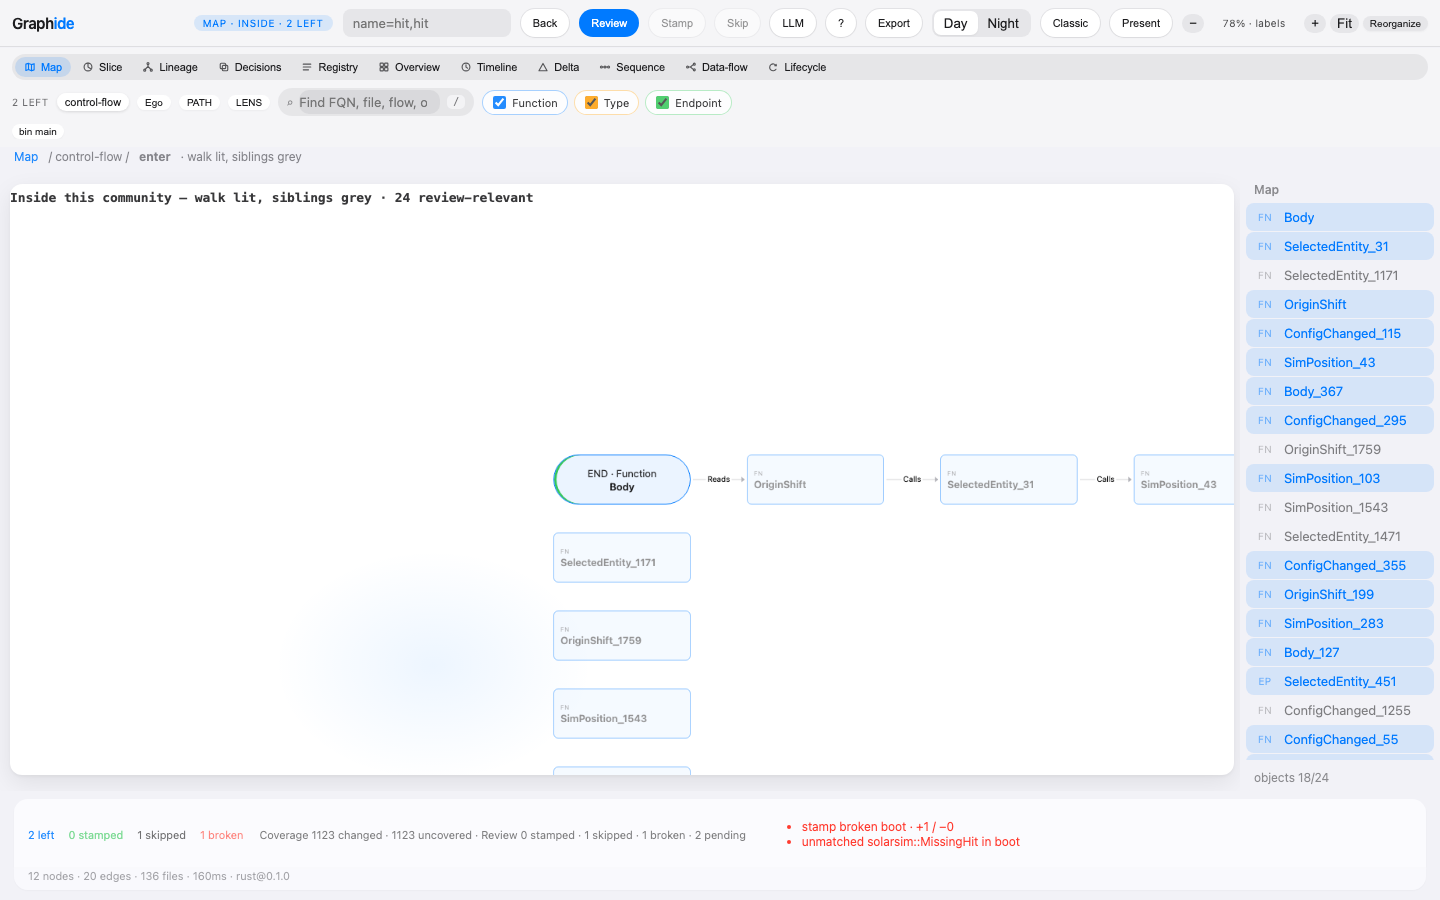
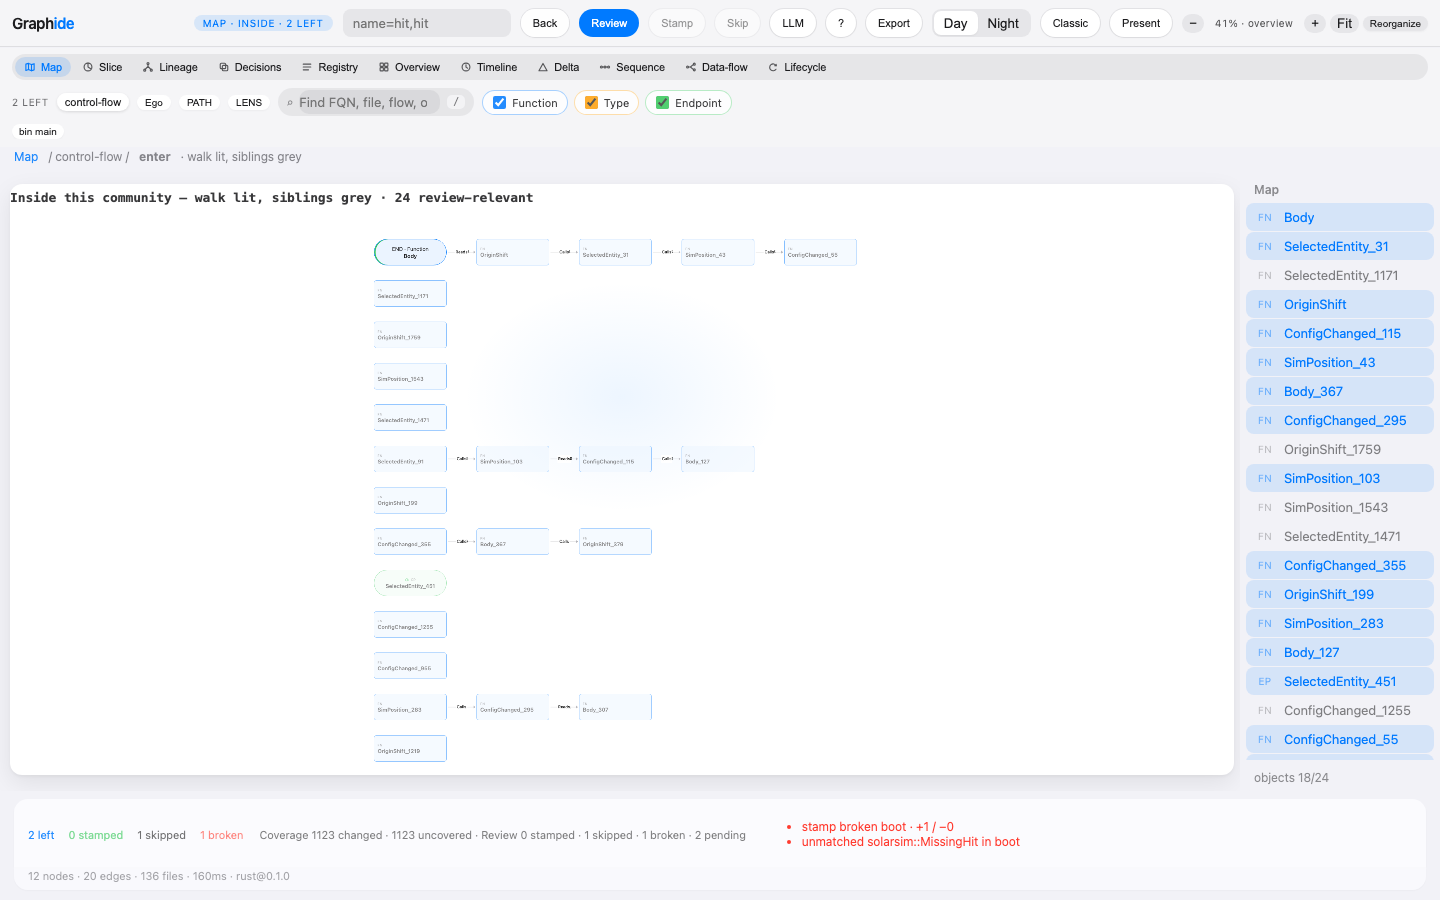
fix(enter): fit a tall community onto the stage
Drop the 78% enter-fit hold. The sink chart frames near 41%, so the lit end and the other members stay on stage without a pan. Zoom-pop still arms only after a zoom above 80%.

diff --git a/scripts/verify-graphide.js b/scripts/verify-graphide.js
@@ -299,10 +299,16 @@ async function enterCutSig(page) {
 async function zoomPopOneLevel(page) {
   const before = await enterCutSig(page);
   await page.evaluate(() => {
+    const read = () => {
+      const m = /(\d+)%/.exec(((document.getElementById("zoomPct") || {}).textContent || ""));
+      return m ? Number(m[1]) : 100;
+    };
     const zin = document.getElementById("zoomIn");
-    if (zin) zin.click();
+    for (let i = 0; i < 8 && read() <= 80; i++) {
+      if (zin) zin.click();
+    }
   });
-  for (let i = 0; i < 12; i++) {
+  for (let i = 0; i < 14; i++) {
     const jumped = await page.evaluate(() => {
       const read = () => {
         const m = /(\d+)%/.exec(((document.getElementById("zoomPct") || {}).textContent || ""));
@@ -5147,42 +5153,44 @@ async function main() {
         inode: document.querySelectorAll(".inode").length,
       };
     });
-    await page.waitForTimeout(500);
-    const sinkFrame = await page.evaluate(() => {
-      const end = document.querySelector("#enterCanvas .vnode[data-shape='end']");
-      const stage = document.querySelector("#canvas .stage");
-      if (!end || !stage) return null;
-      const r = end.getBoundingClientRect();
-      const sr = stage.getBoundingClientRect();
-      const sx = sr.left + 24;
-      const sy = sr.top + 28;
-      const hit = document.elementFromPoint(sx, sy);
-      return {
-        dx: sr.left + sr.width / 2 - (r.left + r.width / 2),
-        dy: sr.top + sr.height / 2 - (r.top + r.height / 2),
-        sx,
-        sy,
-        onNode: !!(hit && hit.closest && hit.closest(".vnode, .react-flow__node")),
-      };
-    });
-    if (sinkFrame && !sinkFrame.onNode && (Math.abs(sinkFrame.dx) > 12 || Math.abs(sinkFrame.dy) > 12)) {
-      await page.mouse.move(sinkFrame.sx, sinkFrame.sy);
-      await page.mouse.down();
-      await page.mouse.move(sinkFrame.sx + sinkFrame.dx, sinkFrame.sy + sinkFrame.dy, { steps: 12 });
-      await page.mouse.up();
-      await page.waitForTimeout(450);
-    }
+    await page.waitForFunction(
+      () => {
+        const vp = document.querySelector("#canvas .viewport");
+        if (!vp) return false;
+        const m = /scale\(([-0-9.]+)\)/.exec(vp.style.transform || "");
+        const k = m ? Number(m[1]) : 0;
+        const pct = Number((/(\d+)%/.exec(((document.getElementById("zoomPct") || {}).textContent || "")) || [])[1] || 0);
+        return pct > 30 && pct < 78 && Math.abs(k * 100 - pct) < 1.5;
+      },
+      null,
+      { timeout: 4000 }
+    );
     const sinkSeen = await page.evaluate(() => {
-      const end = document.querySelector("#enterCanvas .vnode[data-shape='end']");
       const stage = document.querySelector("#canvas .stage");
-      if (!end || !stage) return false;
-      const r = end.getBoundingClientRect();
+      const vp = document.querySelector("#canvas .viewport");
+      const nodes = [...document.querySelectorAll("#enterCanvas .react-flow__node")];
+      const end = document.querySelector("#enterCanvas .vnode[data-shape='end']");
+      if (!stage || !nodes.length || !end) return { ok: false, n: nodes.length, off: nodes.length, k: 0 };
       const sr = stage.getBoundingClientRect();
-      return r.width > 8 && r.right > sr.left && r.left < sr.right && r.bottom > sr.top && r.top < sr.bottom;
+      const slack = 2;
+      const inside = (el) => {
+        const r = el.getBoundingClientRect();
+        return (
+          r.width > 8 &&
+          r.height > 8 &&
+          r.left >= sr.left - slack &&
+          r.top >= sr.top - slack &&
+          r.right <= sr.right + slack &&
+          r.bottom <= sr.bottom + slack
+        );
+      };
+      const off = nodes.filter((el) => !inside(el));
+      const k = vp ? parseFloat(vp.style.getPropertyValue("--cam-k") || "0") : 0;
+      return { ok: off.length === 0 && inside(end), n: nodes.length, off: off.length, k, endOn: inside(end) };
     });
     record(
       "E1j",
-      "Map enter of the sink community stamps one lit walk-end shape",
+      "Map enter of the sink community fits one lit walk-end on stage",
       sinkClick.clicked &&
         sinkClick.id === "b-ui" &&
         sinkEnd.ends === 1 &&
@@ -5196,7 +5204,9 @@ async function main() {
         sinkEnd.xy === sinkEnd.enterXy &&
         sinkEnd.enterXy > 1 &&
         sinkEnd.enterXy <= 24 &&
-        sinkSeen,
+        sinkSeen.ok &&
+        sinkSeen.k < 0.78 &&
+        sinkSeen.endOn,
       JSON.stringify({ click: sinkClick, ...sinkEnd, seen: sinkSeen })
     );
     await shot(page, "enter-sink-end.png");

diff --git a/extension/media/src/graph/desk.js b/extension/media/src/graph/desk.js
@@ -2021,8 +2021,9 @@ function fitChart() {
   const pad = 36;
   let k = Math.min((sr.width - pad) / W, (sr.height - pad) / H, 1.05);
   if (!Number.isFinite(k) || k <= 0) return false;
-  if (canPopAltitude()) k = Math.max(k, 0.78);
   k = clamp(k, CAM_MIN, CAM_MAX);
+  // Fit is not a zoom-out. A tall enter chart may sit under the old 0.78 hold,
+  // including just under the 0.42 pop line. Pop stays a later zoom-out after k > 0.8.
   zoomPopReady = false;
   setCamTarget((sr.width - W * k) / 2, (sr.height - H * k) / 2, k);
   zoomPopReady = k > 0.8;

diff --git a/extension/media/main.js b/extension/media/main.js
@@ -21385,7 +21385,6 @@
       const pad = 36;
       let k = Math.min((sr2.width - pad) / W, (sr2.height - pad) / H2, 1.05);
       if (!Number.isFinite(k) || k <= 0) return false;
-      if (canPopAltitude()) k = Math.max(k, 0.78);
       k = clamp2(k, CAM_MIN, CAM_MAX);
       zoomPopReady = false;
       setCamTarget((sr2.width - W * k) / 2, (sr2.height - H2 * k) / 2, k);

diff --git a/verification/graphic-node-endgoals.md b/verification/graphic-node-endgoals.md
@@ -48,10 +48,21 @@ Choice: click `.bubble-card.end`. The leaf is already lit on the Steiner tree, s
 
 Proof target: `E1j` (one lit end on `n7`, no start, XYFlow only inside `#enterCanvas`) and `E1k` (Back to Map `xy=0` / `data-lod="0"`, no stamp). Enter follows the camera lod. `E1c` still holds on `b-render`.
 
-Proved on this Mac mini: `npm run verify` → `PASS verify-graphide · 460/460`, including `E1j`, `E1k`, and `E1c`. `verification/enter-sink-end.png` luma 0.966 at 1440×900. One lit end pill (`END · Function` / `Body` on `n7`), not a black frame. No `.graphide/stamps/` write.
+Proved on this Mac mini: `npm run verify` → `PASS verify-graphide · 460/460`, including `E1j`, `E1k`, and `E1c`. `verification/enter-sink-end.png` luma 0.966 at 1440×900. One lit end pill (`END · Function` / `Body` on `n7`), not a black frame. No `.graphide/stamps/` write. That shot panned the pill into the stage: enter fit held zoom at 78% and the community was taller than the stage.
 
-## Ranked backlog (Pass 5+)
+## Pass 5 (2026-09-30)
 
-1. Enter fit clips the walk end. `fitChart` holds `k >= 0.78` while enter is open so zoom-pop does not fire, and the `b-ui` graph is taller than the stage. `n7` paints above the stage until the camera pans. Do not drop that floor under `0.42`.
-2. Decision shape. `shapeOf` already returns `decision` for lifecycle waiting. Enter has no branch producer. Do not invent one until the IR has a decision.
-3. Out of scope until the end goal is closed: Herdr chrome, Wasm, continuous Map LOD, Mermaid, Archify, elkjs, MiniMap, Whoop / Graphify.
+Base: Pass 4 tip `4436cdd` (`cursor/enter-sink-end-d0cf`, #120). Herdr #113–#116 stayed parked.
+
+Gap: `fitChart` forced `k >= 0.78` while enter was open. The `b-ui` chart is taller than the stage at that hold, so `n7` and other members painted off stage until the camera panned. The 0.78 hold was there so one zoom-in would arm zoom-pop. Fit is not that gesture.
+
+Choice: subtract the hold. The existing fit frames `.comm-wrap` / `#enterCanvas`. A tall community uses that scale, including when it sits under 0.78 and just under the 0.42 pop line. `zoomPopReady` stays false across the fit, so landing there does not pop. Pop is still a later zoom-out after `k > 0.8`. No new IR kind. No new shape. No new camera. Agents still never stamp. Map community LOD stays `xy=0` / `data-lod="0"`. Decision shape stays parked.
+
+Proof target: `E1j` (one lit end on `n7`, every entered member inside the stage, zoom under 78%, no pan). `E1k` and `E1c` still hold. Zoom-pop (`E1h`, `SR2f`) zooms in until the arm, then out.
+
+Proved on this Mac mini: `npm run verify` → `PASS verify-graphide · 460/460`, including `E1j`, `E1k`, `E1c`, `E1h`, and `SR2f`. `E1j` fit is `k=0.414` with all 24 members inside the stage and the lit end on `n7`. `verification/enter-sink-end.png` luma 0.966 at 1440×900. Not a black frame. No pan. No `.graphide/stamps/` write.
+
+## Ranked backlog (Pass 6+)
+
+1. Decision shape. `shapeOf` already returns `decision` for lifecycle waiting. Enter has no branch producer. Do not invent one until the IR has a decision.
+2. Out of scope until the end goal is closed: Herdr chrome, Wasm, continuous Map LOD, Mermaid, Archify, elkjs, MiniMap, Whoop / Graphify.

diff --git a/.cursor/skills/verify-graphide/references/features/map.md b/.cursor/skills/verify-graphide/references/features/map.md
@@ -47,7 +47,7 @@ Assertions the driver owns:
 - screenshot of `#workspace` / Map is not a black frame
 - After click `.bubble-card`: `#enterCanvas .react-flow__node` length `> 1` and `<= 24`, `#enterCanvas .vnode[data-shape]` present, the first community (`b-render`) has one lit `[data-shape="start"]` (`n0`) and no `[data-shape="end"]`, leaf click opens `#sourcePane`, screenshot `verification/enter-bubble.png` is not a black frame, no stamps written
 - After click `.bubble-card[data-bubble="b-physics"]`: child communities `b-physics-a` / `b-physics-b` are `[data-shape="type"][data-leaf="0"]`. Click `b-physics-a` shows member shapes (`data-leaf="1"`, a `fn`). Back returns to the Type cut, then to Map cards at `xy=0` / `data-lod="0"`. Screenshot `verification/enter-child-type.png` is not a black frame. Zoom-pop from that deeper enter lands on the same Type cut (`E1h`); Back from the same depth matches those ids, then Map `xy=0` / `data-lod="0"` (`E1i`). Screenshot `verification/enter-back-stack.png` is not a black frame
-- After click `.bubble-card.end` (`b-ui`): one lit `[data-shape="end"]` on `n7` (`data-kind="Function"`, `data-leaf="1"`), no `[data-shape="start"]`. XYFlow stays inside `#enterCanvas`. The shot pans the stage so that end sits in view (`verification/enter-sink-end.png`, not a black frame). Back returns to Map cards at `xy=0` / `data-lod="0"` and posts no stamp (`E1j`, `E1k`)
+- After click `.bubble-card.end` (`b-ui`): one lit `[data-shape="end"]` on `n7` (`data-kind="Function"`, `data-leaf="1"`), no `[data-shape="start"]`. XYFlow stays inside `#enterCanvas`. Enter fit frames that community, so the lit end and the other members sit on the stage with no pan (`verification/enter-sink-end.png`, not a black frame). Back returns to Map cards at `xy=0` / `data-lod="0"` and posts no stamp (`E1j`, `E1k`)
 - After Back: Map altitude is cards again and `xy=0`
 
 Optional pins: `?mode=explorer&ws=map`, `?drill=1` (clicks the first `.bubble-card`).

diff --git a/.cursor/skills/verify-graphide/SKILL.md b/.cursor/skills/verify-graphide/SKILL.md
@@ -175,7 +175,8 @@ Run from the repo root. Every line must succeed before you claim the desk works.
      Type cut, then Map `xy=0` / `data-lod="0"` (Slice: the runs).
      The Slice `b-physics` run uses the same Type shape on that stack.
      `.bubble-card.end` (`b-ui`) shows one lit `[data-shape="end"]` on `n7`
-     and no start. Back returns Map to `xy=0` / `data-lod="0"`.
+     and no start. Enter fit keeps that end and the other members on
+     the stage. Back returns Map to `xy=0` / `data-lod="0"`.
      Map altitude stays `xy=0`
    - Ego / Find: `#egoBtn` + `#egoHops` 1 vs 2 on enter / Slice / Lineage;
      `#graphSearch` dims cards and XYFlow nodes
